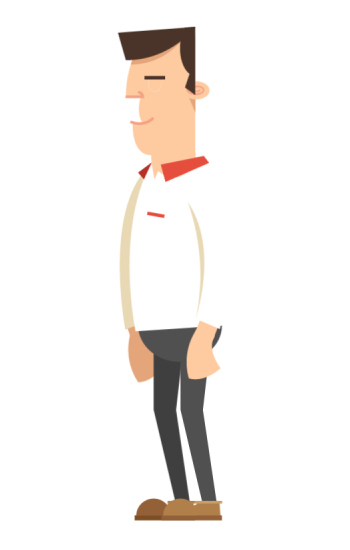
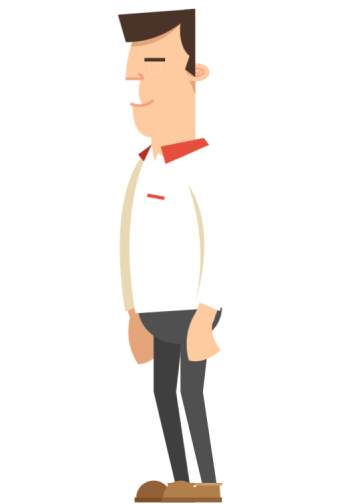
Fixing key control, adding responsiveness

Changed region(s): [[0.3429, 0.506, 0.6571, 1.0], [0.3429, 0.0, 0.6, 0.2679], [0.3714, 0.2679, 0.6, 0.3571]]

diff --git a/src/static/js/main.js b/src/static/js/main.js
@@ -2,8 +2,8 @@
 var loaders = [];
 var imgpath = 'static/img/';
 var tedframesmisc = ['right_stand.png','left_stand.png'];
-var leftframeswalk = ['left_walk_01.png','left_walk_02.png','left_walk_03.png','left_walk_04.png','left_walk_05.png','left_walk_06.png','left_walk_07.png','left_walk_08.png','left_walk_09.png','left_walk_10.png','left_walk_11.png','left_walk_12.png','left_walk_13.png'];
-var rightframeswalk = ['right_walk_01.png','right_walk_02.png','right_walk_03.png','right_walk_04.png','right_walk_05.png','right_walk_06.png','right_walk_07.png','right_walk_08.png','right_walk_09.png','right_walk_10.png','right_walk_11.png','right_walk_12.png','right_walk_13.png'];
+var leftframeswalk = ['left_walk_1.png','left_walk_2.png','left_walk_3.png','left_walk_4.png','left_walk_5.png','left_walk_6.png','left_walk_7.png','left_walk_8.png','left_walk_9.png','left_walk_10.png','left_walk_11.png','left_walk_12.png','left_walk_13.png'];
+var rightframeswalk = ['right_walk_1.png','right_walk_2.png','right_walk_3.png','right_walk_4.png','right_walk_5.png','right_walk_6.png','right_walk_7.png','right_walk_8.png','right_walk_9.png','right_walk_10.png','right_walk_11.png','right_walk_12.png','right_walk_13.png'];
 
 //preload images
 function loadFile(src,array,num) {
@@ -31,42 +31,72 @@ callAllPreloads(rightframeswalk,imgpath);
 function PlayerObj(){
 	this.xpos = 100;
 	this.ypos = 100;
-	this.w = 350;
-	this.h = 550;
+	this.idealw = 500;
+	this.idealh = 504;
+	this.w = 0;
+	this.h = 0;
 	this.sprite = tedframesmisc[0];
-	this.spritew = 350;
-	this.spriteh = 550;
+	this.spritew = 500;
+	this.spriteh = 504;
 	this.walkrightframes = [];
 	this.walkleftframes = [];
-	//contains: key pressed, animation frames, frame duration, end frame, alter x pos by
+	//contains: key pressed, animation frames, frame duration, end frame, direction
 	this.animations = [
-		[39, rightframeswalk, 70, tedframesmisc[0], 15],
-		[37, leftframeswalk, 10, tedframesmisc[1], -20]
+		[39, rightframeswalk, 50, tedframesmisc[0], 1],
+		[37, leftframeswalk, 50, tedframesmisc[1], -1]
 	];
 	this.curranim = 0;
 	this.animationStart = 0;
 	this.currentFrame = 0;
 	this.maxFrames = 0;
+	this.walkdirection = 0;
+	this.speed = 10;
+	this.jump = 0;
+	this.jumpHeight = 50;
+	
+	this.init = function(){
+		var sizes = ted.general.calculateAspectRatio(this.idealw,this.idealh,ted.canvasw,ted.canvash / 2);
+		this.w = sizes[0];
+		this.h = sizes[1];
+		this.ypos = ted.canvash - this.h;
+		this.speed = (this.w / 100) * 6; //base the speed on the width of the character, 6% is an arbitrarily chosen value that looks okay
+	};
 
 	this.draw = function(){
 		ted.general.drawOnCanvas(this);
 	};
 
-	this.moveLeft = function(key,upordown){
-		if(upordown){
-			this.doAnimation(39,1);
+	//this is a bit clumsy but two keys need to cancel each other out
+	this.move = function(keys){
+		if(keys[37] && keys[39]){ //both keys are pressed, don't move
+			this.walkdirection = 0;
 		}
-	};
-	this.moveRight = function(key,upordown){
-		if(upordown){
-			this.doAnimation(37,1);
+		else if(keys[37]){ //move right
+			this.walkdirection = 37;
+		}
+		else if(keys[39]){ //move left
+			this.walkdirection = 39;
+		}
+		else {
+			this.walkdirection = 0;
+		}
+		
+		if(keys[38] && this.jump === 0){
+			console.log('up');
+		}
+		
+		if(this.walkdirection){
+			this.doAnimation();
+		}
+		else {
+			this.clearAnimation();
 		}
 	};
 
-	this.doAnimation = function(key, upordown){
+	this.doAnimation = function(){
 		if(this.curranim === 0){ //look up and store the required animation
 			for(var i = 0; i < this.animations.length; i++){
-				if(this.animations[i][0] === key){ //the key pressed matches this action, so do it
+				if(this.animations[i][0] === this.walkdirection){ //the key pressed matches this action, so do it
 					this.curranim = this.animations[i];
 					this.currentFrame = 0;
 					this.maxFrames = this.curranim[1].length; //store some data about this animation
@@ -75,21 +105,17 @@ function PlayerObj(){
 				}
 			}
 		}
-		if(upordown){ //key has been pressed down
-			if(this.animationStart < (new Date().getTime() - this.curranim[2]) || this.animationStart === 0){ //if it's time to move to the next frame
-				this.xpos += this.curranim[4]; //move the xpos, probably a better way to do this
-				this.animationStart = new Date().getTime();
-				if(this.currentFrame < this.maxFrames){ //check if we need to loop back to the first frame
-					this.sprite = this.curranim[1][this.currentFrame];
-					this.currentFrame++;
-				}
-				else {
-					this.currentFrame = 0;
-				}
+		if(this.animationStart < (new Date().getTime() - this.curranim[2]) || this.animationStart === 0){ //if it's time to move to the next frame
+			//this.xpos += this.curranim[4]; //move the xpos, probably a better way to do this
+			this.xpos += this.speed * this.curranim[4];
+			this.animationStart = new Date().getTime();
+			if(this.currentFrame < this.maxFrames){ //check if we need to loop back to the first frame
+				this.sprite = this.curranim[1][this.currentFrame];
+				this.currentFrame++;
 			}
-		}
-		else { //key has been released, stop the animation somewhere sensible
-			this.clearAnimation();
+			else {
+				this.currentFrame = 0;
+			}
 		}
 	};
 
@@ -120,15 +146,49 @@ var ted = {
             }
             else {
                 ted.ctx = ted.canvas.getContext('2d');
-				var parentel = $('#canvas').parent();
-				ted.canvas.width = ted.canvasw = parentel.outerWidth();
-				ted.canvas.height = ted.canvash = parentel.outerHeight();
+                this.initCanvasSize();
 				ted.general.setupPlayer();
 	            ted.game.gameLoop();
             }
         },
+        //initialise the size of the canvas based on the ideal aspect ratio and the size of the parent element
+		initCanvasSize: function(){
+			//ideal size for canvas
+			var destwidth = 1000;
+			var destheight = 600;
+			var parentel = $('#canvas').parent();
+			/*
+			var aspect = Math.floor((parentel.height() / destheight) * destwidth);
+
+			var cwidth = Math.min(destwidth, parentel.width());
+			var cheight = Math.min(destheight, parentel.height());
+
+			ted.canvas.width = ted.canvasw = Math.min(parentel.width(),aspect);
+			ted.canvas.height = ted.canvash = (ted.canvas.width / destwidth) * destheight;
+			*/
+			//resize the canvas to maintain aspect ratio depending on screen size
+			var sizes = ted.general.calculateAspectRatio(destwidth,destheight,parentel.width(),parentel.height());
+			ted.canvas.width = ted.canvasw = sizes[0];
+			ted.canvas.height = ted.canvash = sizes[1];
+
+        },
+        //given a width and height representing an aspect ratio, and the size of the containing thing, return the largest w and h matching that aspect ratio
+		calculateAspectRatio: function(idealw,idealh,parentw,parenth){
+			var aspect = Math.floor((parenth / idealh) * idealw);
+			var cwidth = Math.min(idealw, parentw);
+			var cheight = Math.min(idealh, parenth);
+
+			var w = Math.min(parentw,aspect);
+			var h = (w / idealw) * idealh;
+			return([w,h]);
+		},
+        //fixme this will contain resizing for all the elements as well
+        resizeCanvas: function(){
+			ted.general.initCanvasSize();
+			ted.player.init();
+		},
         clearCanvas: function(){
-            ted.ctx.clearRect(0, 0, ted.canvas.width, ted.canvas.height);//clear the canvas
+            ted.ctx.clearRect(0, 0, ted.canvas.width, ted.canvas.height); //clear the canvas
         },
         drawOnCanvas: function(obj){
 			//console.log(obj.sprite);
@@ -136,6 +196,7 @@ var ted = {
 		},
 		setupPlayer: function(){
 			ted.player = new PlayerObj();
+			ted.player.init();
 			//http://stackoverflow.com/questions/12273451/how-to-fix-delay-in-javascript-keydown
 			window.addEventListener('keydown',function(e){
 			    ted.keyState[e.keyCode || e.which] = true;
@@ -143,21 +204,11 @@ var ted = {
 			window.addEventListener('keyup',function(e){
 			    ted.keyState[e.keyCode || e.which] = false;
 			},true);
-		}
+		},
     },
     game: {
 		gameLoop: function(){
-			//this is slightly less flexible than I'd like but it works
-			if(ted.keyState[37]){
-				ted.player.moveRight(37,ted.keyState[37]);
-			}
-			else if(ted.keyState[39]){
-				ted.player.moveLeft(39,ted.keyState[39]);
-			}
-			else {
-				ted.player.clearAnimation();
-			}
-
+			ted.player.move(ted.keyState);
 			ted.general.clearCanvas();
 			ted.player.draw();
 			setTimeout(ted.game.gameLoop,20);
@@ -173,4 +224,11 @@ window.onload = function(){
 	$.when.apply(null, loaders).done(function() {
 	    ted.general.init();
     });
+
+	var resize;
+	window.addEventListener('resize', function(event){
+		clearTimeout(resize);
+		resize = setTimeout(ted.general.resizeCanvas,200);
+	});
 };
+

diff --git a/src/static/less/page.less b/src/static/less/page.less
@@ -21,5 +21,7 @@
 		.vertical-gradient( #FFFFFF, 0%, #EEEEEE, 100% );
 		.canvas {
 			display:block;
+			margin:0 auto;
+			outline:solid 1px gray;
 		}
 	}
